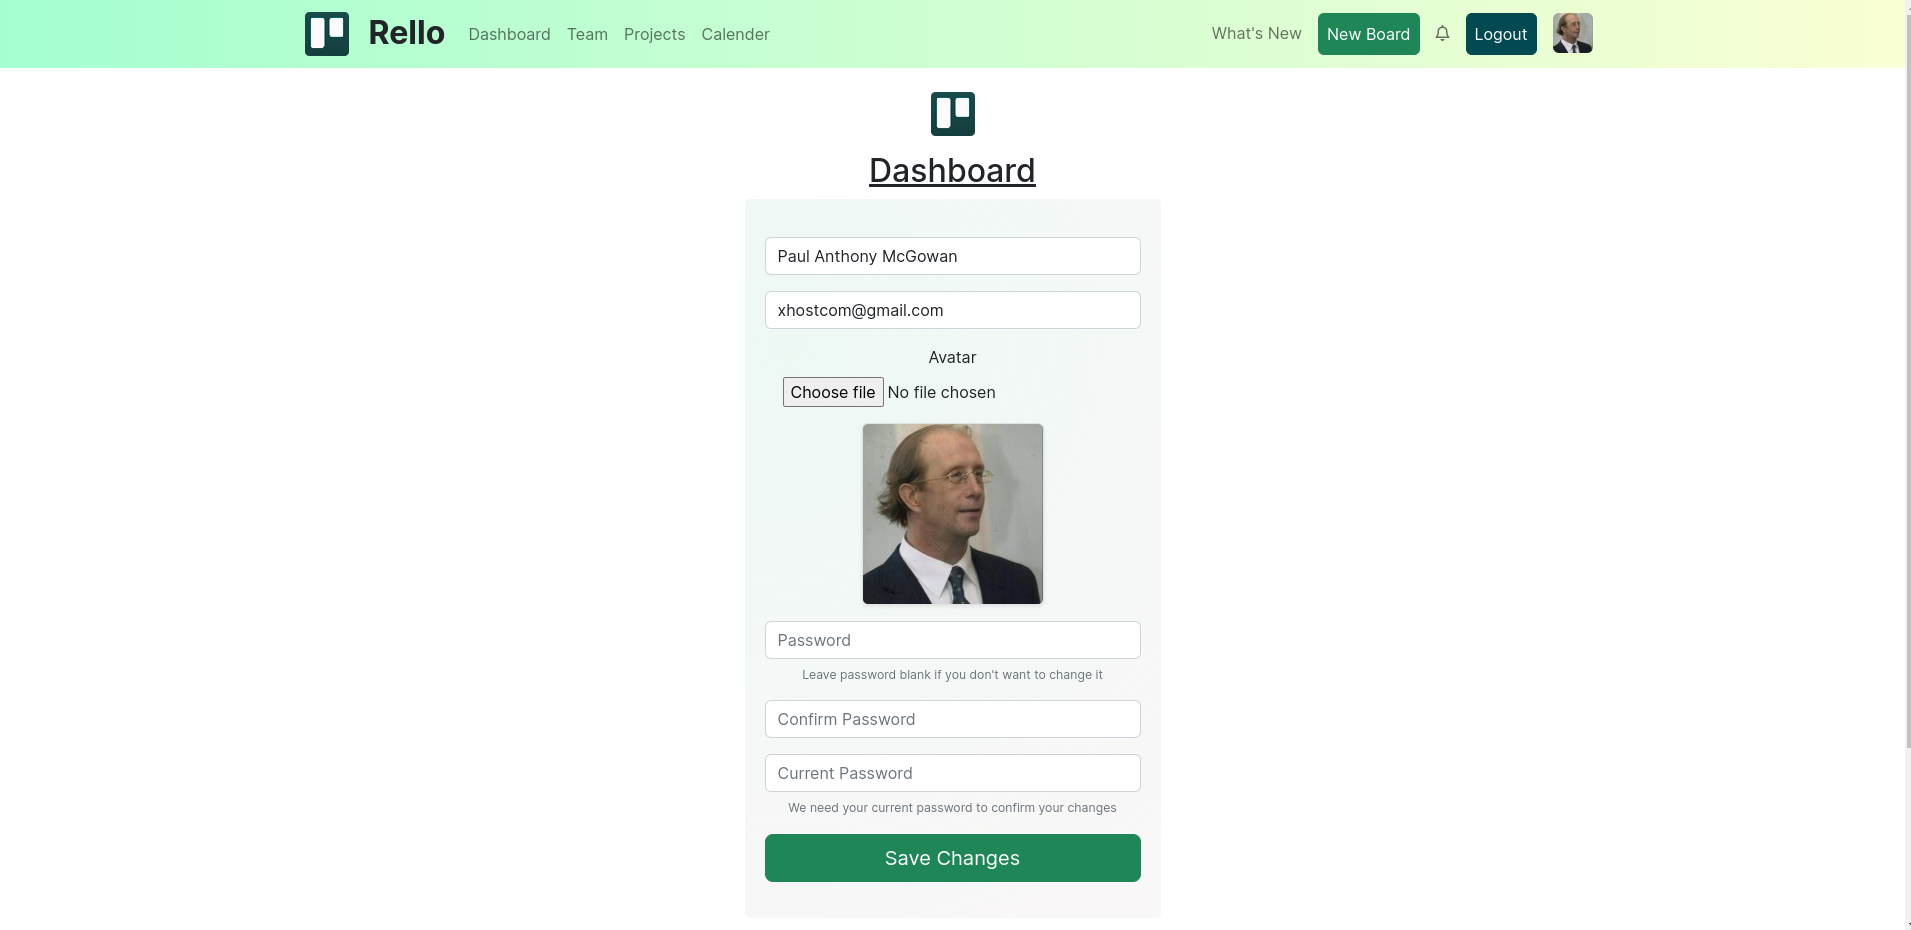
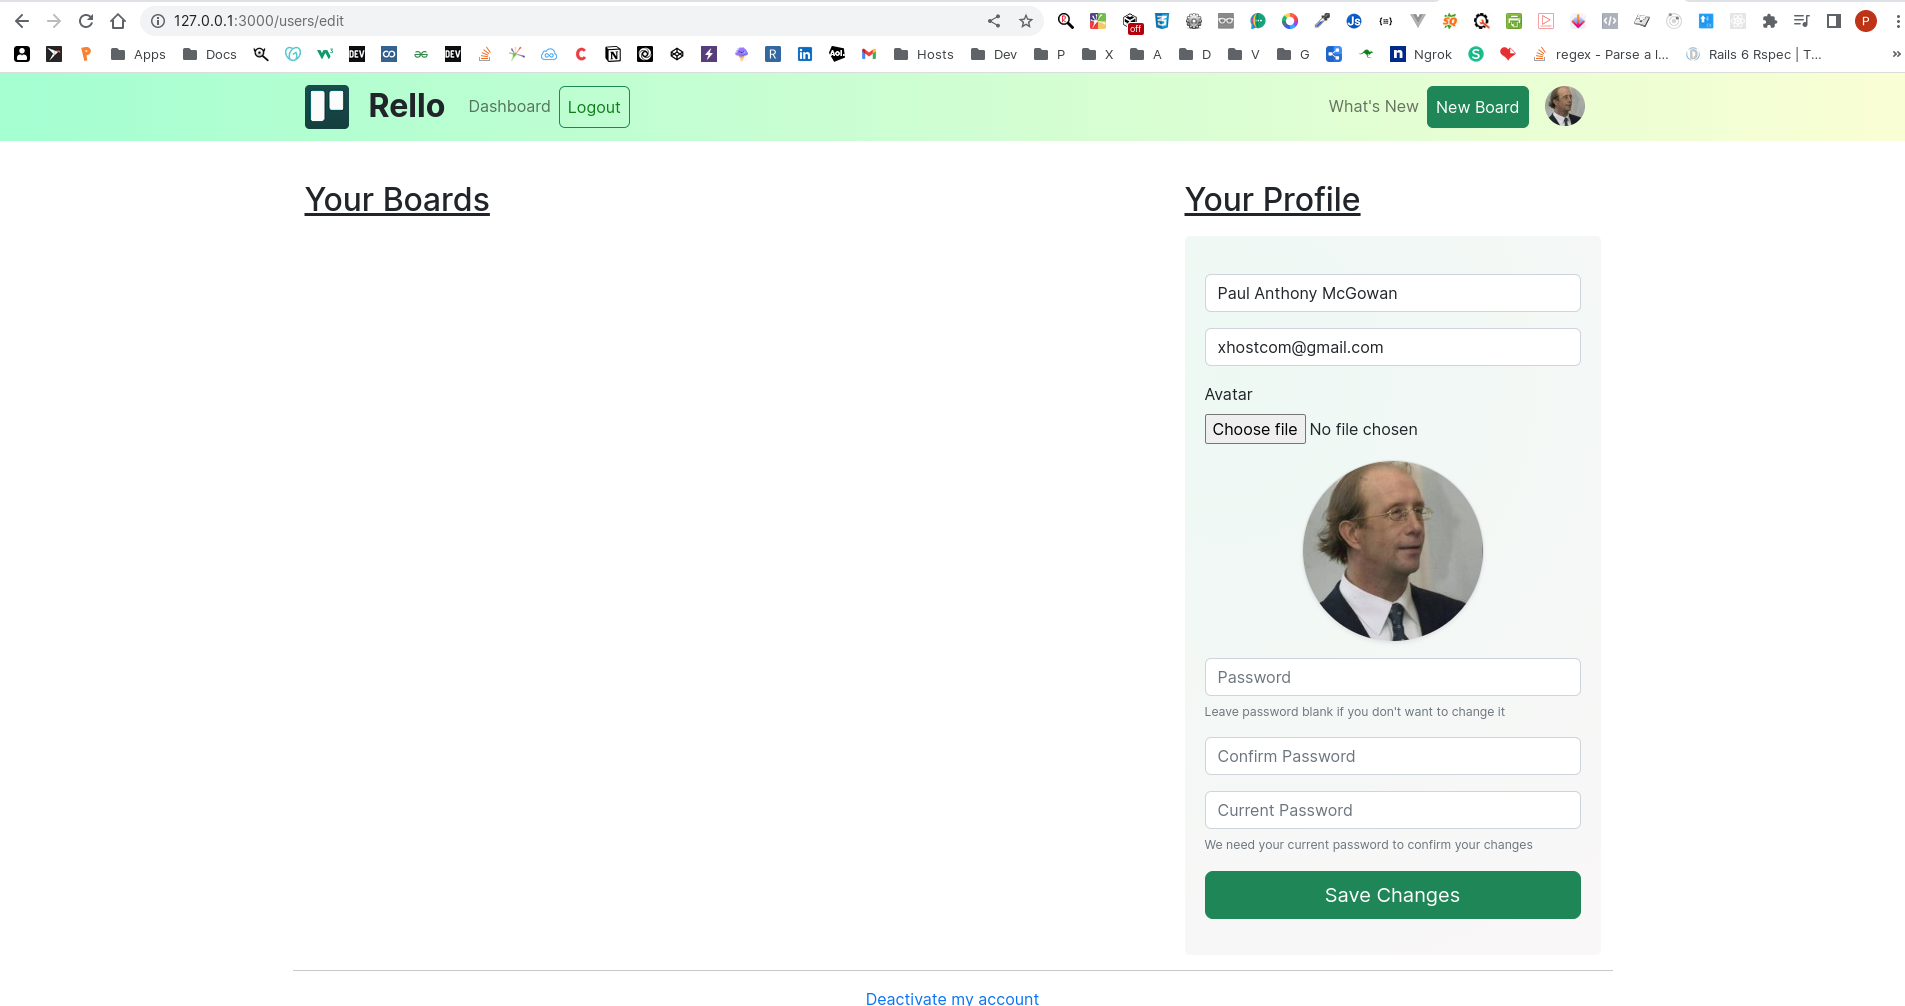
Dashboard

diff --git a/app/assets/stylesheets/application.bootstrap.scss b/app/assets/stylesheets/application.bootstrap.scss
@@ -41,4 +41,14 @@ color: green;
 .btn-custom:focus,
 .btn-custom:active {
 color: #fff;
+} 
+.rounded {
+    border-radius: 50%!important;
+}
+
+@media only screen and (min-device-width : 320px) and (max-device-width : 480px) {
+    .rounded 
+    {
+        padding-top: 15px!important;
+    }
 }

diff --git a/app/controllers/boards_controller.rb b/app/controllers/boards_controller.rb
@@ -21,11 +21,11 @@ class BoardsController < ApplicationController
 
   # POST /boards or /boards.json
   def create
-    @board = Board.new(board_params)
+    @board = Board.new(board_params.merge(user: current_user))
 
     respond_to do |format|
       if @board.save
-        format.html { redirect_to board_url(@board), notice: "Board was successfully created." }
+        format.html { redirect_to board_url(@board), notice: 'Board was successfully created.' }
         format.json { render :show, status: :created, location: @board }
       else
         format.html { render :new, status: :unprocessable_entity }
@@ -38,7 +38,7 @@ class BoardsController < ApplicationController
   def update
     respond_to do |format|
       if @board.update(board_params)
-        format.html { redirect_to board_url(@board), notice: "Board was successfully updated." }
+        format.html { redirect_to board_url(@board), notice: 'Board was successfully updated.' }
         format.json { render :show, status: :ok, location: @board }
       else
         format.html { render :edit, status: :unprocessable_entity }
@@ -52,7 +52,7 @@ class BoardsController < ApplicationController
     @board.destroy
 
     respond_to do |format|
-      format.html { redirect_to boards_url, notice: "Board was successfully destroyed." }
+      format.html { redirect_to boards_url, notice: 'Board was successfully destroyed.' }
       format.json { head :no_content }
     end
   end
@@ -65,6 +65,6 @@ class BoardsController < ApplicationController
 
     # Only allow a list of trusted parameters through.
     def board_params
-      params.require(:board).permit(:name, :user_id)
+      params.require(:board).permit(:name)
     end
 end

diff --git a/config/routes.rb b/config/routes.rb
@@ -5,25 +5,18 @@ Rails.application.routes.draw do
   draw :madmin
   get '/privacy', to: 'home#privacy'
   get '/terms', to: 'home#terms'
-authenticate :user, lambda { |u| u.admin? } do
-  mount Sidekiq::Web => '/sidekiq'
+  authenticate :user, lambda { |u| u.admin? } do
+    mount Sidekiq::Web => '/sidekiq'
 
-  namespace :madmin do
-    resources :impersonates do
-      post :impersonate, on: :member
-      post :stop_impersonating, on: :collection
+    namespace :madmin do
+      resources :impersonates do
+        post :impersonate, on: :member
+        post :stop_impersonating, on: :collection
+      end
     end
   end
-end
-  resources :boards, only: [:new, :create] 
-  resources :notifications, only: [:index]
+  devise_for :users, controllers: { omniauth_callbacks: 'users/omniauth_callbacks' }
+  resources :boards, only: %i[new create]
   resources :announcements, only: [:index]
-  devise_for :users, controllers: { omniauth_callbacks: "users/omniauth_callbacks" }
   root to: 'home#index'
-
-  #post '/boards/new', to: 'boards#new', as: 'board'
-  # Define your application routes per the DSL in https://guides.rubyonrails.org/routing.html
-
-  # Defines the root path route ("/")
-  # root "articles#index"
 end

diff --git a/app/controllers/users/omniauth_callbacks_controller.rb b/app/controllers/users/omniauth_callbacks_controller.rb
@@ -2,23 +2,24 @@ module Users
   class OmniauthCallbacksController < Devise::OmniauthCallbacksController
     before_action :set_service, except: [:failure]
     before_action :set_user, except: [:failure]
+    before action :set_boards, only: %i[index show]
 
-    attr_reader :service, :user
+    attr_reader :service, :user, :boards
 
     def failure
-      redirect_to root_path, alert: "Something went wrong"
+      redirect_to root_path, alert: 'Something went badly wrong'
     end
 
     def facebook
-      handle_auth "Facebook"
+      handle_auth 'Facebook'
     end
 
     def twitter
-      handle_auth "Twitter"
+      handle_auth 'Twitter'
     end
 
     def github
-      handle_auth "Github"
+      handle_auth 'Github'
     end
 
     private
@@ -75,7 +76,7 @@ module Users
     def create_user
       User.create(
         email: auth.info.email,
-        #name: auth.info.name,
+        name: auth.info.name,
         password: Devise.friendly_token[0,20]
       )
     end

diff --git a/app/controllers/home_controller.rb b/app/controllers/home_controller.rb
@@ -1,10 +1,9 @@
 class HomeController < ApplicationController
   def index
+    redirect_to edit_user_registration_path if user_signed_in?
   end
 
-  def terms
-  end
+  def terms; end
 
-  def privacy
-  end
+  def privacy; end
 end

diff --git a/app/controllers/users/dashboard_controller.rb b/app/controllers/users/dashboard_controller.rb
@@ -1,0 +1,8 @@
+class DashboardController < ApplicationController
+  before_action :authenticate_user!
+
+  def index
+    @boards = current_user.boards
+    render json: @boards
+  end
+end
